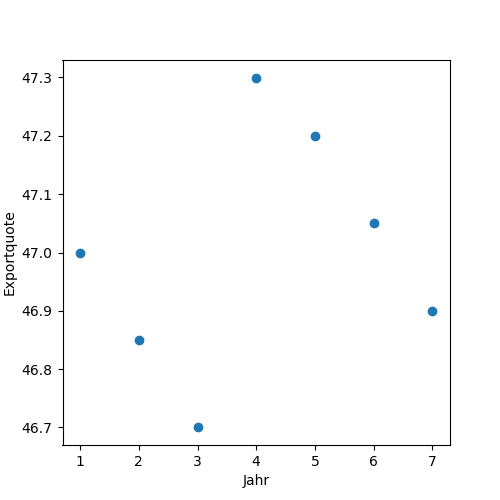
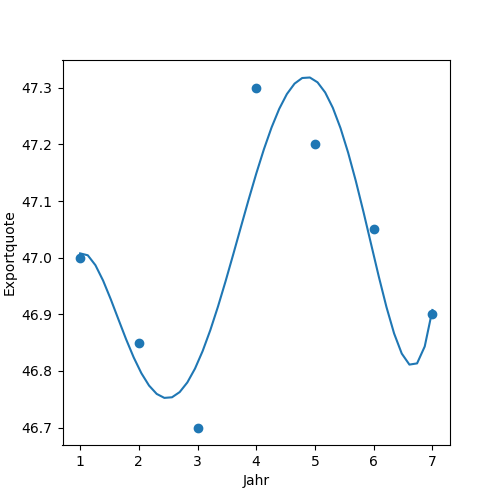
auswertung data-3

diff --git a/R3/b/datensatz_3_b_auswertung.py b/R3/b/datensatz_3_b_auswertung.py
@@ -2,6 +2,8 @@ import csv
 import math
 import os
 import matplotlib.pyplot as plt
+from scipy import stats
+import numpy as np
 
 
 def main():
@@ -105,6 +107,13 @@ def main():
             plt.scatter(werteX, werteY)
             plt.xlabel(x)
             plt.ylabel(y)
+
+            model = np.poly1d(np.polyfit(werteX, werteY, 5))
+
+            line = np.linspace(min(werteX), max(werteX), int(werteY[0]))
+
+            plt.plot(line, model(line))
+
             plt.savefig("scatterplot.png")
 
     else:

diff --git a/R4/datensatz_4_auswertung.py b/R4/datensatz_4_auswertung.py
@@ -1,6 +1,7 @@
 import csv
 import math
 import os
+
 from scipy import stats
 
 import matplotlib.pyplot as plt
@@ -76,6 +77,8 @@ def main():
             print()
 
             print_modus(werteY, 1)
+
+            print()
 
             plt.figure(figsize=(7, 7))
             plt.boxplot(sorted(werteY))
